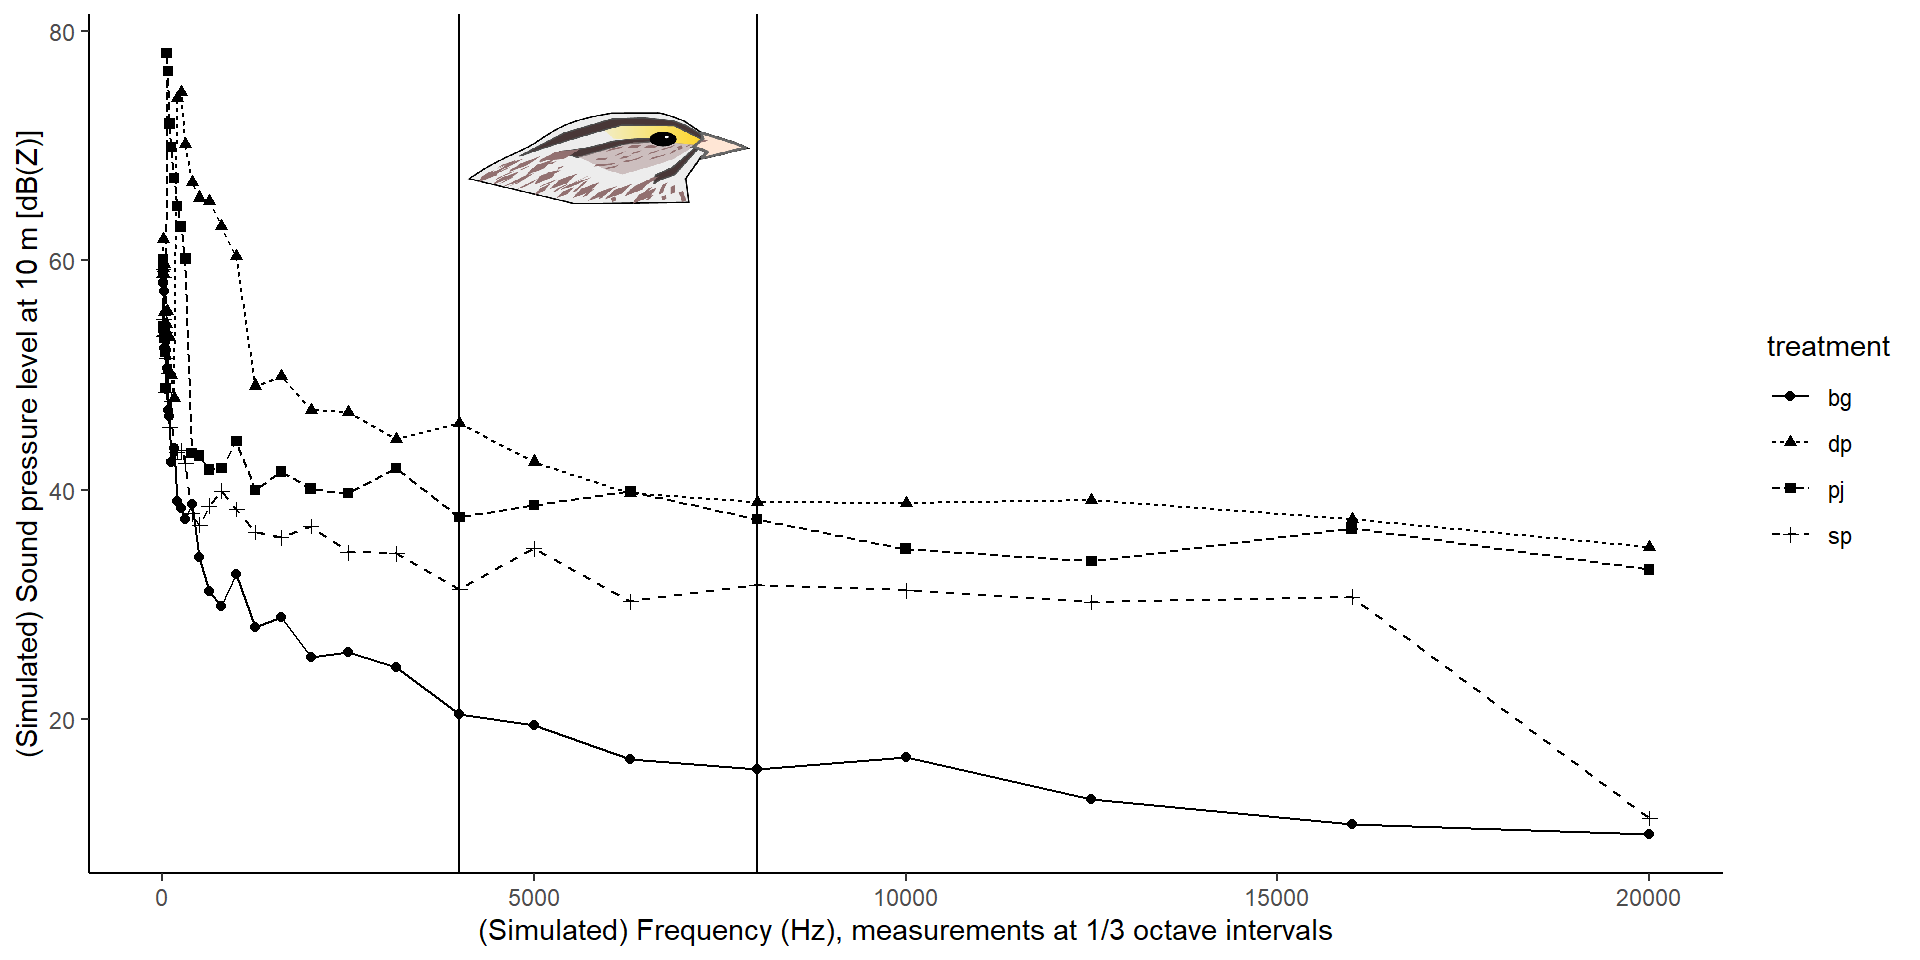
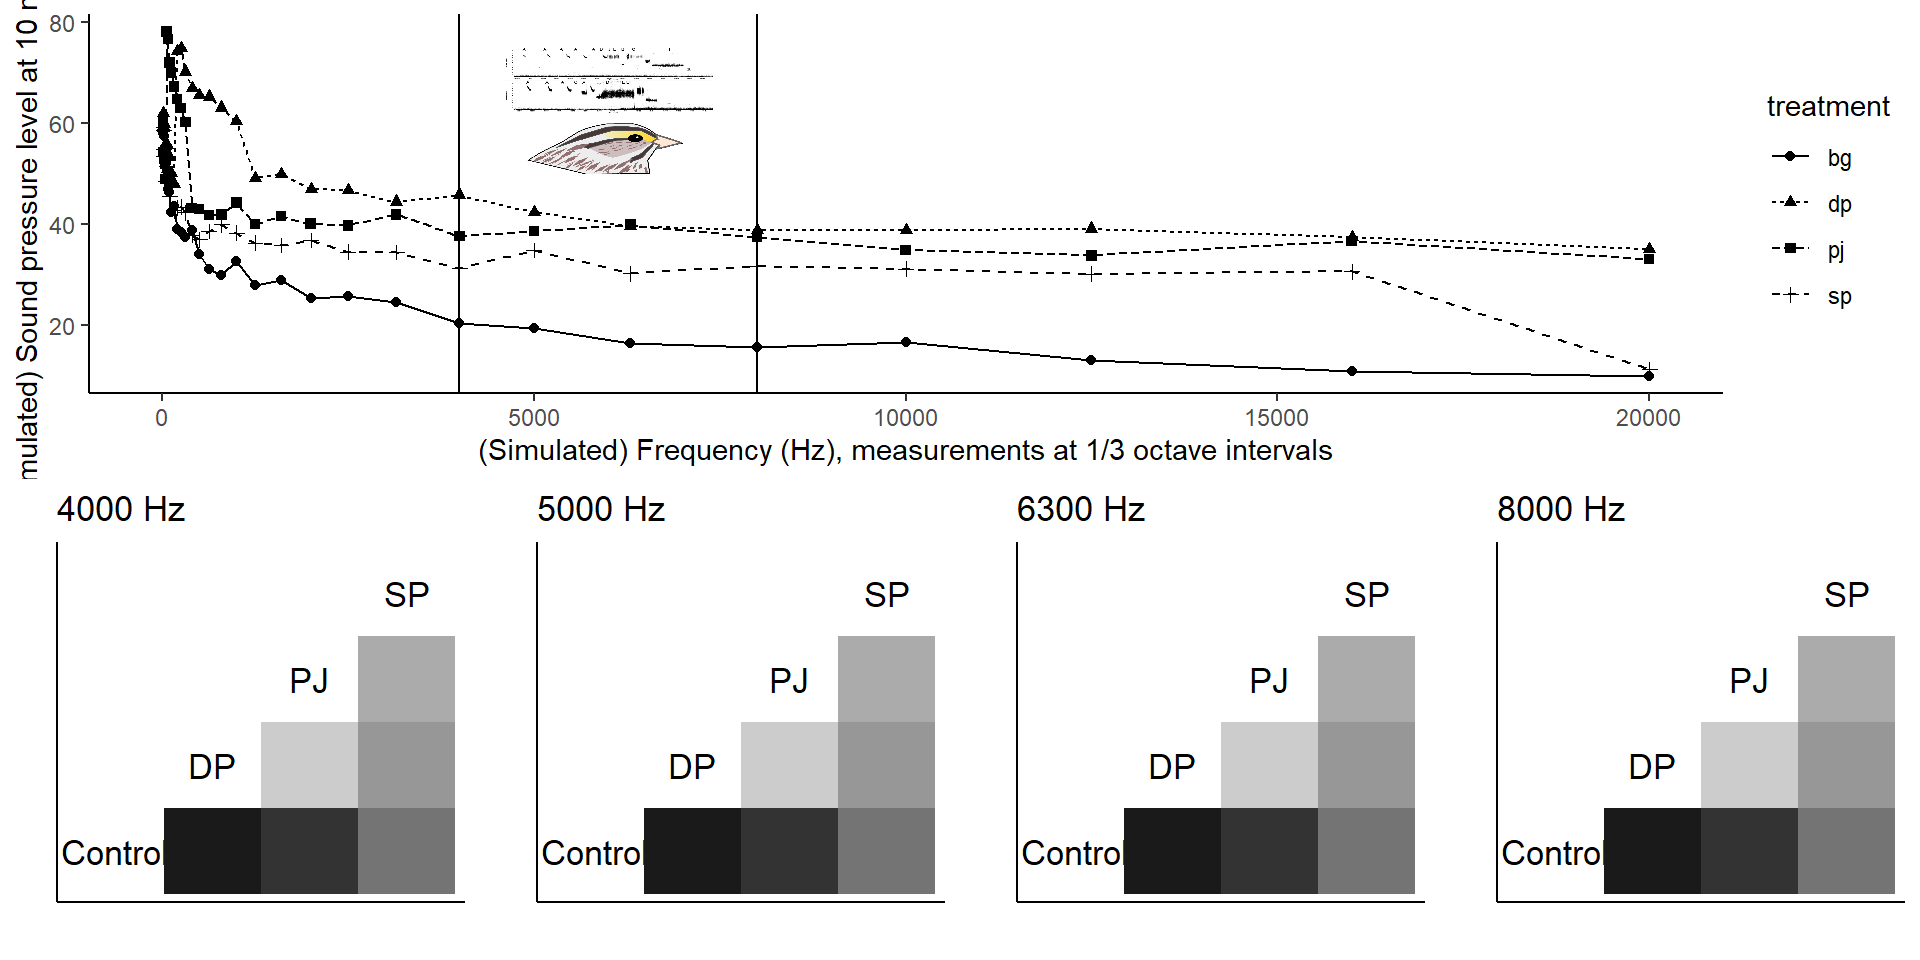
adding more illustrations, cleaning up other figures

diff --git a/index.html b/index.html
@@ -510,6 +510,12 @@ Curry, Tweedy, Schilling
 <li>There is no right answer, there is the right answer for your situation</li>
 <li>Graph data more than once to show different aspects</li>
 </ul>
+<div class="absolute" style="top: 40%; left: 4%; width: 45%; ">
+<p><img data-src="images/clean_cat_image.png"></p>
+</div>
+<div class="absolute" style="top: 45%; left: 49%; width: 45%; ">
+<p><img data-src="images/highlight_cat.png"></p>
+</div>
 <aside><ol class="aside-footnotes"><li id="fn4"><p>Kirk, 2019, pg. 130, figure 5.6</p></li></ol></aside></section></section>
 <section>
 <section id="perception-why-graphs-work" class="title-slide slide level1">
@@ -647,9 +653,10 @@ Curry, Tweedy, Schilling
 <h1>Design: <strong>How</strong> to communicate your message</h1>
 
 </section>
-<section id="consider-location-of-audience-paper-screen-projection" class="slide level2">
-<h2>Consider location of audience (paper, screen, projection)</h2>
+<section id="consider-location-of-audience" class="slide level2">
+<h2>Consider location of audience</h2>
 <ul>
+<li>Paper, screen, projected</li>
 <li>Not all minds or eyes work the same - universal design</li>
 <li>Make changes to tell your story more clearly<sup>1</sup>
 <ul>
@@ -1098,17 +1105,6 @@ Curry, Tweedy, Schilling
 <div>
 <figure>
 <p><img data-src="index_files/figure-revealjs/unnamed-chunk-32-1.png" width="960"></p>
-</figure>
-</div>
-</div>
-</div>
-</div>
-<div class="absolute" style="top: 60%; left: -10%; width: 20%; ">
-<div class="cell">
-<div class="cell-output-display">
-<div>
-<figure>
-<p><img data-src="index_files/figure-revealjs/unnamed-chunk-33-1.png" width="960"></p>
 </figure>
 </div>
 </div>
